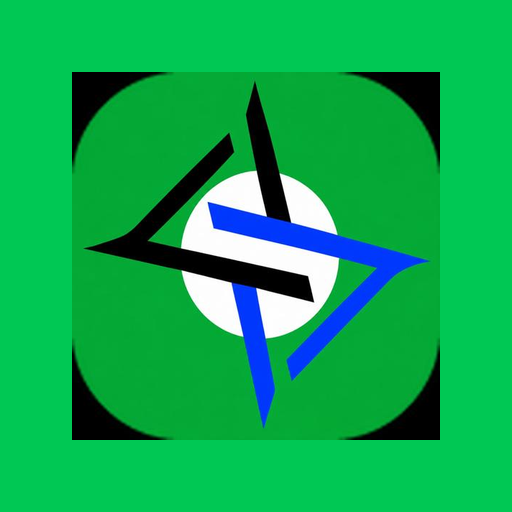
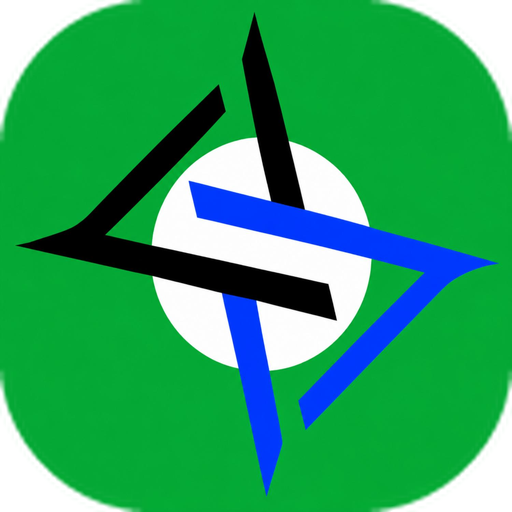
Add files via upload

diff --git a/main.py b/main.py
@@ -305,22 +305,37 @@ def decode_string(h):
     return b[off + 32:off + 32 + ln].decode("utf-8", errors="replace")
 
 
+def _encode_address(addr: str) -> str:
+    """Manual ABI word for address — avoids eth_abi isinstance issues on Android."""
+    a = addr.lower().replace("0x", "")
+    if len(a) != 40:
+        raise ValueError(f"bad address: {addr}")
+    return a.rjust(64, "0")
+
+
+def _encode_bytes32(b32: str) -> str:
+    h = b32.lower().replace("0x", "")
+    if len(h) != 64:
+        raise ValueError(f"bad bytes32: {b32}")
+    return h
+
+
 def read_uint(rpc_url, contract, sig, address_arg=None):
     data = selector(sig)
     if address_arg:
-        data += abi_encode(["address"], [address_arg]).hex()
+        data += _encode_address(address_arg)
     return decode_uint(eth_call(rpc_url, contract, data))
 
 
 def read_int(rpc_url, contract, sig, address_arg=None):
     data = selector(sig)
     if address_arg:
-        data += abi_encode(["address"], [address_arg]).hex()
+        data += _encode_address(address_arg)
     return decode_int(eth_call(rpc_url, contract, data))
 
 
 def read_bool(rpc_url, contract, sig, bytes32_arg):
-    data = selector(sig) + abi_encode(["bytes32"], [bytes32_arg]).hex()
+    data = selector(sig) + _encode_bytes32(bytes32_arg)
     return decode_bool(eth_call(rpc_url, contract, data))
 
 
@@ -426,17 +441,11 @@ def verify_struct_hash(rpc_url, user, payload, metadata) -> str:
 
 
 def fetch_mint_status(rpc_url, csos_addr, user):
+    """Returns (effective, minted, mintable). Raises on RPC/decode errors."""
     eff = read_int(rpc_url, LEDGER_ADDR, "effectiveOf(address)", user)
     minted = read_uint(rpc_url, csos_addr, "minted(address)", user)
     mintable = read_uint(rpc_url, csos_addr, "mintable(address)", user)
-    cap = max(0, eff - C_SOS_RESERVE)
-    return {
-        "effectiveOf": eff,
-        "reserve": C_SOS_RESERVE,
-        "cap": cap,
-        "minted": minted,
-        "mintable": mintable,
-    }
+    return int(eff), int(minted), int(mintable)
 
 
 # =====================================================================
@@ -596,10 +605,10 @@ class DeployTab(BoxLayout):
         self.add_widget(make_header("SOS Deployer — Deploy"))
 
         self.pk       = make_input("Private key (0x...)", password=True)
-        self.rpc_url  = make_input("RPC URL (e.g. https://sepolia.infura.io/v3/KEY)",
-                                  text="https://ethereum-sepolia-rpc.publicnode.com")
-        self.chain_id = make_input("Chain ID (1=mainnet, 11155111=Sepolia)", numeric=True,
-                                   text="11155111")
+        self.rpc_url  = make_input("RPC URL (mainnet)",
+                                  text="https://ethereum-rpc.publicnode.com")
+        self.chain_id = make_input("Chain ID (1=mainnet)", numeric=True,
+                                   text="1")
         self.mint_fee = make_input("MINT_FEE in wei (recommend 0)", numeric=True, text="0")
         self.treasury = make_input("TREASURY address (0x...)",
                                    text="0x1C10e6574ee696f54b21A611a21313E4714628ad")
@@ -747,8 +756,8 @@ class MintTab(BoxLayout):
 
         # Connection fields (can be prefilled from Deploy)
         self.rpc_url  = make_input("RPC URL",
-                                  text="https://ethereum-sepolia-rpc.publicnode.com")
-        self.chain_id = make_input("Chain ID", numeric=True, text="11155111")
+                                  text="https://ethereum-rpc.publicnode.com")
+        self.chain_id = make_input("Chain ID", numeric=True, text="1")
         self.pk       = make_input("Private key (signer = minter)", password=True)
         self.contract = make_input("cSOS contract address (0x...)",
                                    text="0xce9B507C242Adf722DD1DE2d7aa5Db1BF2259D8F")
@@ -957,7 +966,7 @@ class QueryTab(BoxLayout):
         self.add_widget(make_header("SOS — Query"))
 
         self.rpc_url  = make_input("RPC URL",
-                                  text="https://ethereum-sepolia-rpc.publicnode.com")
+                                  text="https://ethereum-rpc.publicnode.com")
         self.address  = make_input("Address to query (0x...)")
         self.csos     = make_input("cSOS contract (optional)",
                                    text="0xce9B507C242Adf722DD1DE2d7aa5Db1BF2259D8F")

diff --git a/README.md b/README.md
@@ -65,8 +65,8 @@ On open the app already fills safe public values. You can edit or paste over any
 
 | Field | Default |
 |-------|---------|
-| RPC URL | https://ethereum-sepolia-rpc.publicnode.com |
-| Chain ID | 11155111 (Sepolia) |
+| RPC URL | https://ethereum-rpc.publicnode.com |
+| Chain ID | 1 (Ethereum mainnet) |
 | MINT_FEE | 0 |
 | TREASURY | 0x1C10e6574ee696f54b21A611a21313E4714628ad |
 | cSOS contract | 0xce9B507C242Adf722DD1DE2d7aa5Db1BF2259D8F |
@@ -79,3 +79,10 @@ Never prefilled: private key, amount, payloadHash, query address.
 - **App icon** (launcher): `icon.png` — SOS green star logo
 - **Startup splash**: `presplash.png` — logo + SOS Deployer + **v0.3**
 - In-app header: logo top-left + title + version on every tab
+
+
+## Fix notes (v0.3.1)
+
+- Status read no longer crashes (`fetch_mint_status` returns a proper tuple; address ABI encoding is manual to avoid Android eth_abi `isinstance` bugs).
+- Defaults are **Ethereum mainnet** (chain id 1 + public mainnet RPC).
+- Logo corners cleaned (black → transparent).
